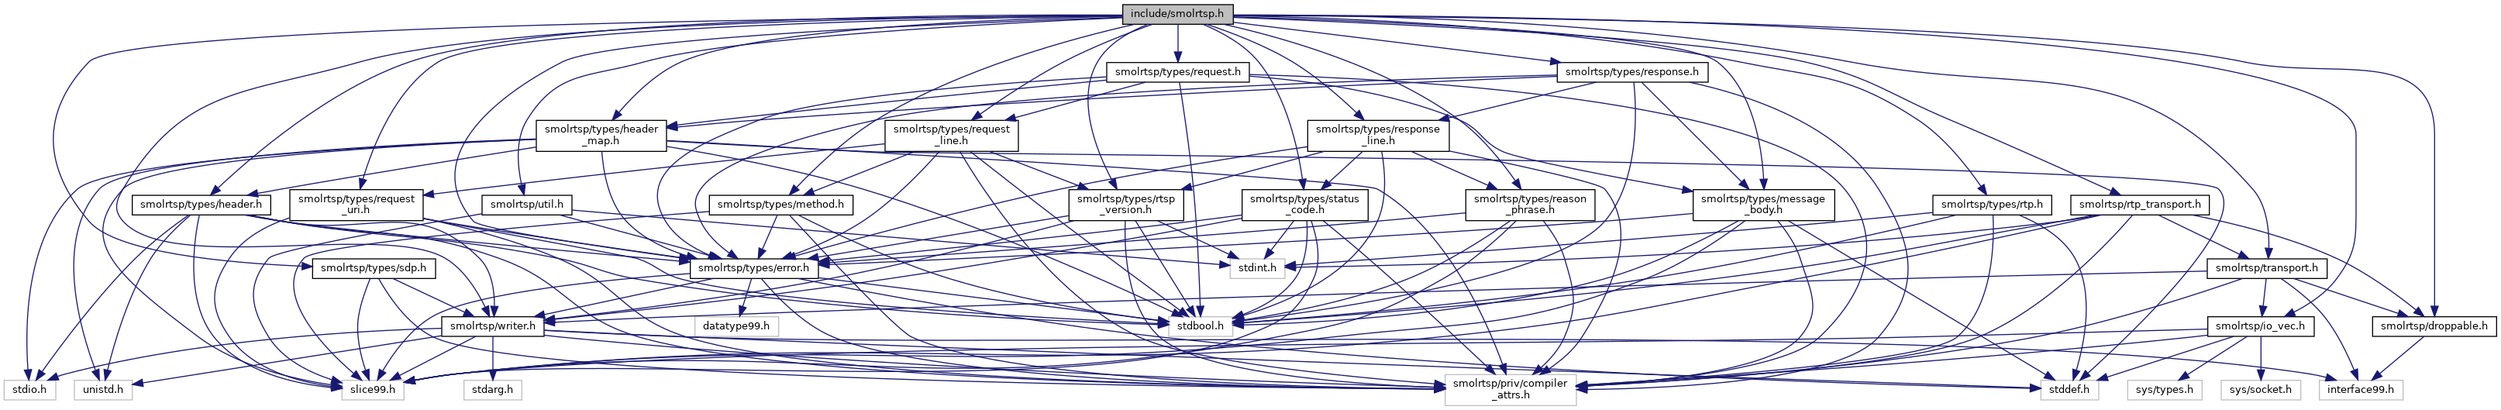
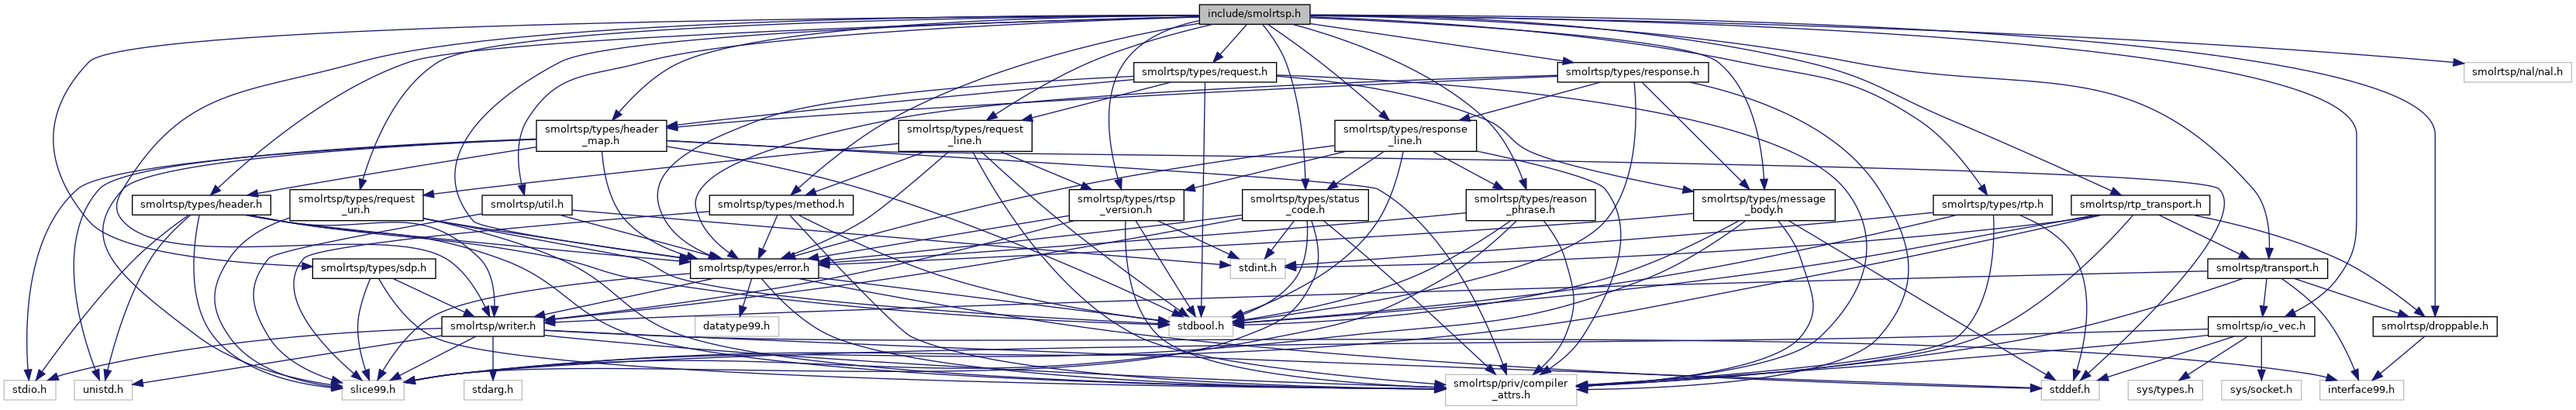
deploy: 3f6bcb6711287f0a3543b71ab7b9c1d9b652a2f0

diff --git a/smolrtsp_8h.html b/smolrtsp_8h.html
@@ -105,6 +105,7 @@ $(document).ready(function(){initNavTree('smolrtsp_8h.html',''); initResizable()
 <code>#include &lt;<a class="el" href="rtsp__version_8h_source.html">smolrtsp/types/rtsp_version.h</a>&gt;</code><br />
 <code>#include &lt;<a class="el" href="sdp_8h_source.html">smolrtsp/types/sdp.h</a>&gt;</code><br />
 <code>#include &lt;<a class="el" href="status__code_8h_source.html">smolrtsp/types/status_code.h</a>&gt;</code><br />
+<code>#include &lt;smolrtsp/nal/nal.h&gt;</code><br />
 <code>#include &lt;<a class="el" href="droppable_8h_source.html">smolrtsp/droppable.h</a>&gt;</code><br />
 <code>#include &lt;<a class="el" href="io__vec_8h_source.html">smolrtsp/io_vec.h</a>&gt;</code><br />
 <code>#include &lt;<a class="el" href="rtp__transport_8h_source.html">smolrtsp/rtp_transport.h</a>&gt;</code><br />
@@ -116,7 +117,7 @@ Include dependency graph for smolrtsp.h:</div>
 <div class="dyncontent">
 <div class="center"><img src="smolrtsp_8h__incl.png" border="0" usemap="#include_2smolrtsp_8h" alt=""/></div>
 <map name="include_2smolrtsp_8h" id="include_2smolrtsp_8h">
-<area shape="rect" title="Re&#45;exports all the functionality." alt="" coords="1449,5,1591,32"/>
+<area shape="rect" title="Re&#45;exports all the functionality." alt="" coords="1547,5,1690,32"/>
 <area shape="rect" href="error_8h.html" title="Possible parsing errors." alt="" coords="891,333,1056,360"/>
 <area shape="rect" href="writer_8h.html" title="The writer interface." alt="" coords="570,408,702,435"/>
 <area shape="rect" href="header_8h.html" title="An RTSP header." alt="" coords="171,251,349,278"/>
@@ -124,15 +125,16 @@ Include dependency graph for smolrtsp.h:</div>
 <area shape="rect" href="message__body_8h.html" title="An RTSP message body." alt="" coords="2185,244,2367,285"/>
 <area shape="rect" href="method_8h.html" title="An RTSP method." alt="" coords="915,251,1101,278"/>
 <area shape="rect" href="reason__phrase_8h.html" title="An RTSP reason phrase." alt="" coords="1891,244,2058,285"/>
-<area shape="rect" href="request_8h.html" title="An RTSP request." alt="" coords="1428,80,1612,107"/>
-<area shape="rect" href="request__line_8h.html" title="An RTSP request line." alt="" coords="1142,155,1314,196"/>
+<area shape="rect" href="request_8h.html" title="An RTSP request." alt="" coords="1463,80,1647,107"/>
+<area shape="rect" href="request__line_8h.html" title="An RTSP request line." alt="" coords="1159,155,1331,196"/>
 <area shape="rect" href="request__uri_8h.html" title="An RTSP request URI." alt="" coords="374,244,546,285"/>
 <area shape="rect" href="rtsp__version_8h.html" title="An RTSP version." alt="" coords="1379,244,1527,285"/>
 <area shape="rect" href="response_8h.html" title="An RTSP response." alt="" coords="2009,80,2204,107"/>
-<area shape="rect" href="response__line_8h.html" title="An RTSP response line." alt="" coords="1687,155,1870,196"/>
+<area shape="rect" href="response__line_8h.html" title="An RTSP response line." alt="" coords="1722,155,1905,196"/>
 <area shape="rect" href="status__code_8h.html" title="An RTSP status code." alt="" coords="1603,244,1765,285"/>
 <area shape="rect" href="rtp_8h.html" title="RFC 3550&#45;compliant RTP implementation." alt="" coords="2494,251,2647,278"/>
 <area shape="rect" href="sdp_8h.html" title="RFC 4566&#45;compliant SDP implementation." alt="" coords="403,333,562,360"/>
+<area shape="rect" title=" " alt="" coords="3179,80,3317,107"/>
 <area shape="rect" href="droppable_8h.html" title="Droppable types support." alt="" coords="3061,408,3221,435"/>
 <area shape="rect" href="io__vec_8h.html" title="Vectored I/O support." alt="" coords="2849,408,2986,435"/>
 <area shape="rect" href="rtp__transport_8h.html" title="An RTP data transport." alt="" coords="2672,251,2851,278"/>

diff --git a/smolrtsp_8h_source.html b/smolrtsp_8h_source.html
@@ -106,12 +106,14 @@ $(document).ready(function(){initNavTree('smolrtsp_8h_source.html',''); initResi
 <div class="line"><a name="l00031"></a><span class="lineno">   31</span>&#160;<span class="preprocessor">#include &lt;<a class="code" href="sdp_8h.html">smolrtsp/types/sdp.h</a>&gt;</span></div>
 <div class="line"><a name="l00032"></a><span class="lineno">   32</span>&#160;<span class="preprocessor">#include &lt;<a class="code" href="status__code_8h.html">smolrtsp/types/status_code.h</a>&gt;</span></div>
 <div class="line"><a name="l00033"></a><span class="lineno">   33</span>&#160; </div>
-<div class="line"><a name="l00034"></a><span class="lineno">   34</span>&#160;<span class="preprocessor">#include &lt;<a class="code" href="droppable_8h.html">smolrtsp/droppable.h</a>&gt;</span></div>
-<div class="line"><a name="l00035"></a><span class="lineno">   35</span>&#160;<span class="preprocessor">#include &lt;<a class="code" href="io__vec_8h.html">smolrtsp/io_vec.h</a>&gt;</span></div>
-<div class="line"><a name="l00036"></a><span class="lineno">   36</span>&#160;<span class="preprocessor">#include &lt;<a class="code" href="rtp__transport_8h.html">smolrtsp/rtp_transport.h</a>&gt;</span></div>
-<div class="line"><a name="l00037"></a><span class="lineno">   37</span>&#160;<span class="preprocessor">#include &lt;<a class="code" href="transport_8h.html">smolrtsp/transport.h</a>&gt;</span></div>
-<div class="line"><a name="l00038"></a><span class="lineno">   38</span>&#160;<span class="preprocessor">#include &lt;<a class="code" href="util_8h.html">smolrtsp/util.h</a>&gt;</span></div>
-<div class="line"><a name="l00039"></a><span class="lineno">   39</span>&#160;<span class="preprocessor">#include &lt;<a class="code" href="writer_8h.html">smolrtsp/writer.h</a>&gt;</span></div>
+<div class="line"><a name="l00034"></a><span class="lineno">   34</span>&#160;<span class="preprocessor">#include &lt;smolrtsp/nal/nal.h&gt;</span></div>
+<div class="line"><a name="l00035"></a><span class="lineno">   35</span>&#160; </div>
+<div class="line"><a name="l00036"></a><span class="lineno">   36</span>&#160;<span class="preprocessor">#include &lt;<a class="code" href="droppable_8h.html">smolrtsp/droppable.h</a>&gt;</span></div>
+<div class="line"><a name="l00037"></a><span class="lineno">   37</span>&#160;<span class="preprocessor">#include &lt;<a class="code" href="io__vec_8h.html">smolrtsp/io_vec.h</a>&gt;</span></div>
+<div class="line"><a name="l00038"></a><span class="lineno">   38</span>&#160;<span class="preprocessor">#include &lt;<a class="code" href="rtp__transport_8h.html">smolrtsp/rtp_transport.h</a>&gt;</span></div>
+<div class="line"><a name="l00039"></a><span class="lineno">   39</span>&#160;<span class="preprocessor">#include &lt;<a class="code" href="transport_8h.html">smolrtsp/transport.h</a>&gt;</span></div>
+<div class="line"><a name="l00040"></a><span class="lineno">   40</span>&#160;<span class="preprocessor">#include &lt;<a class="code" href="util_8h.html">smolrtsp/util.h</a>&gt;</span></div>
+<div class="line"><a name="l00041"></a><span class="lineno">   41</span>&#160;<span class="preprocessor">#include &lt;<a class="code" href="writer_8h.html">smolrtsp/writer.h</a>&gt;</span></div>
 </div><!-- fragment --></div><!-- contents -->
 </div><!-- doc-content -->
 <div class="ttc" id="amethod_8h_html"><div class="ttname"><a href="method_8h.html">method.h</a></div><div class="ttdoc">An RTSP method.</div></div>
